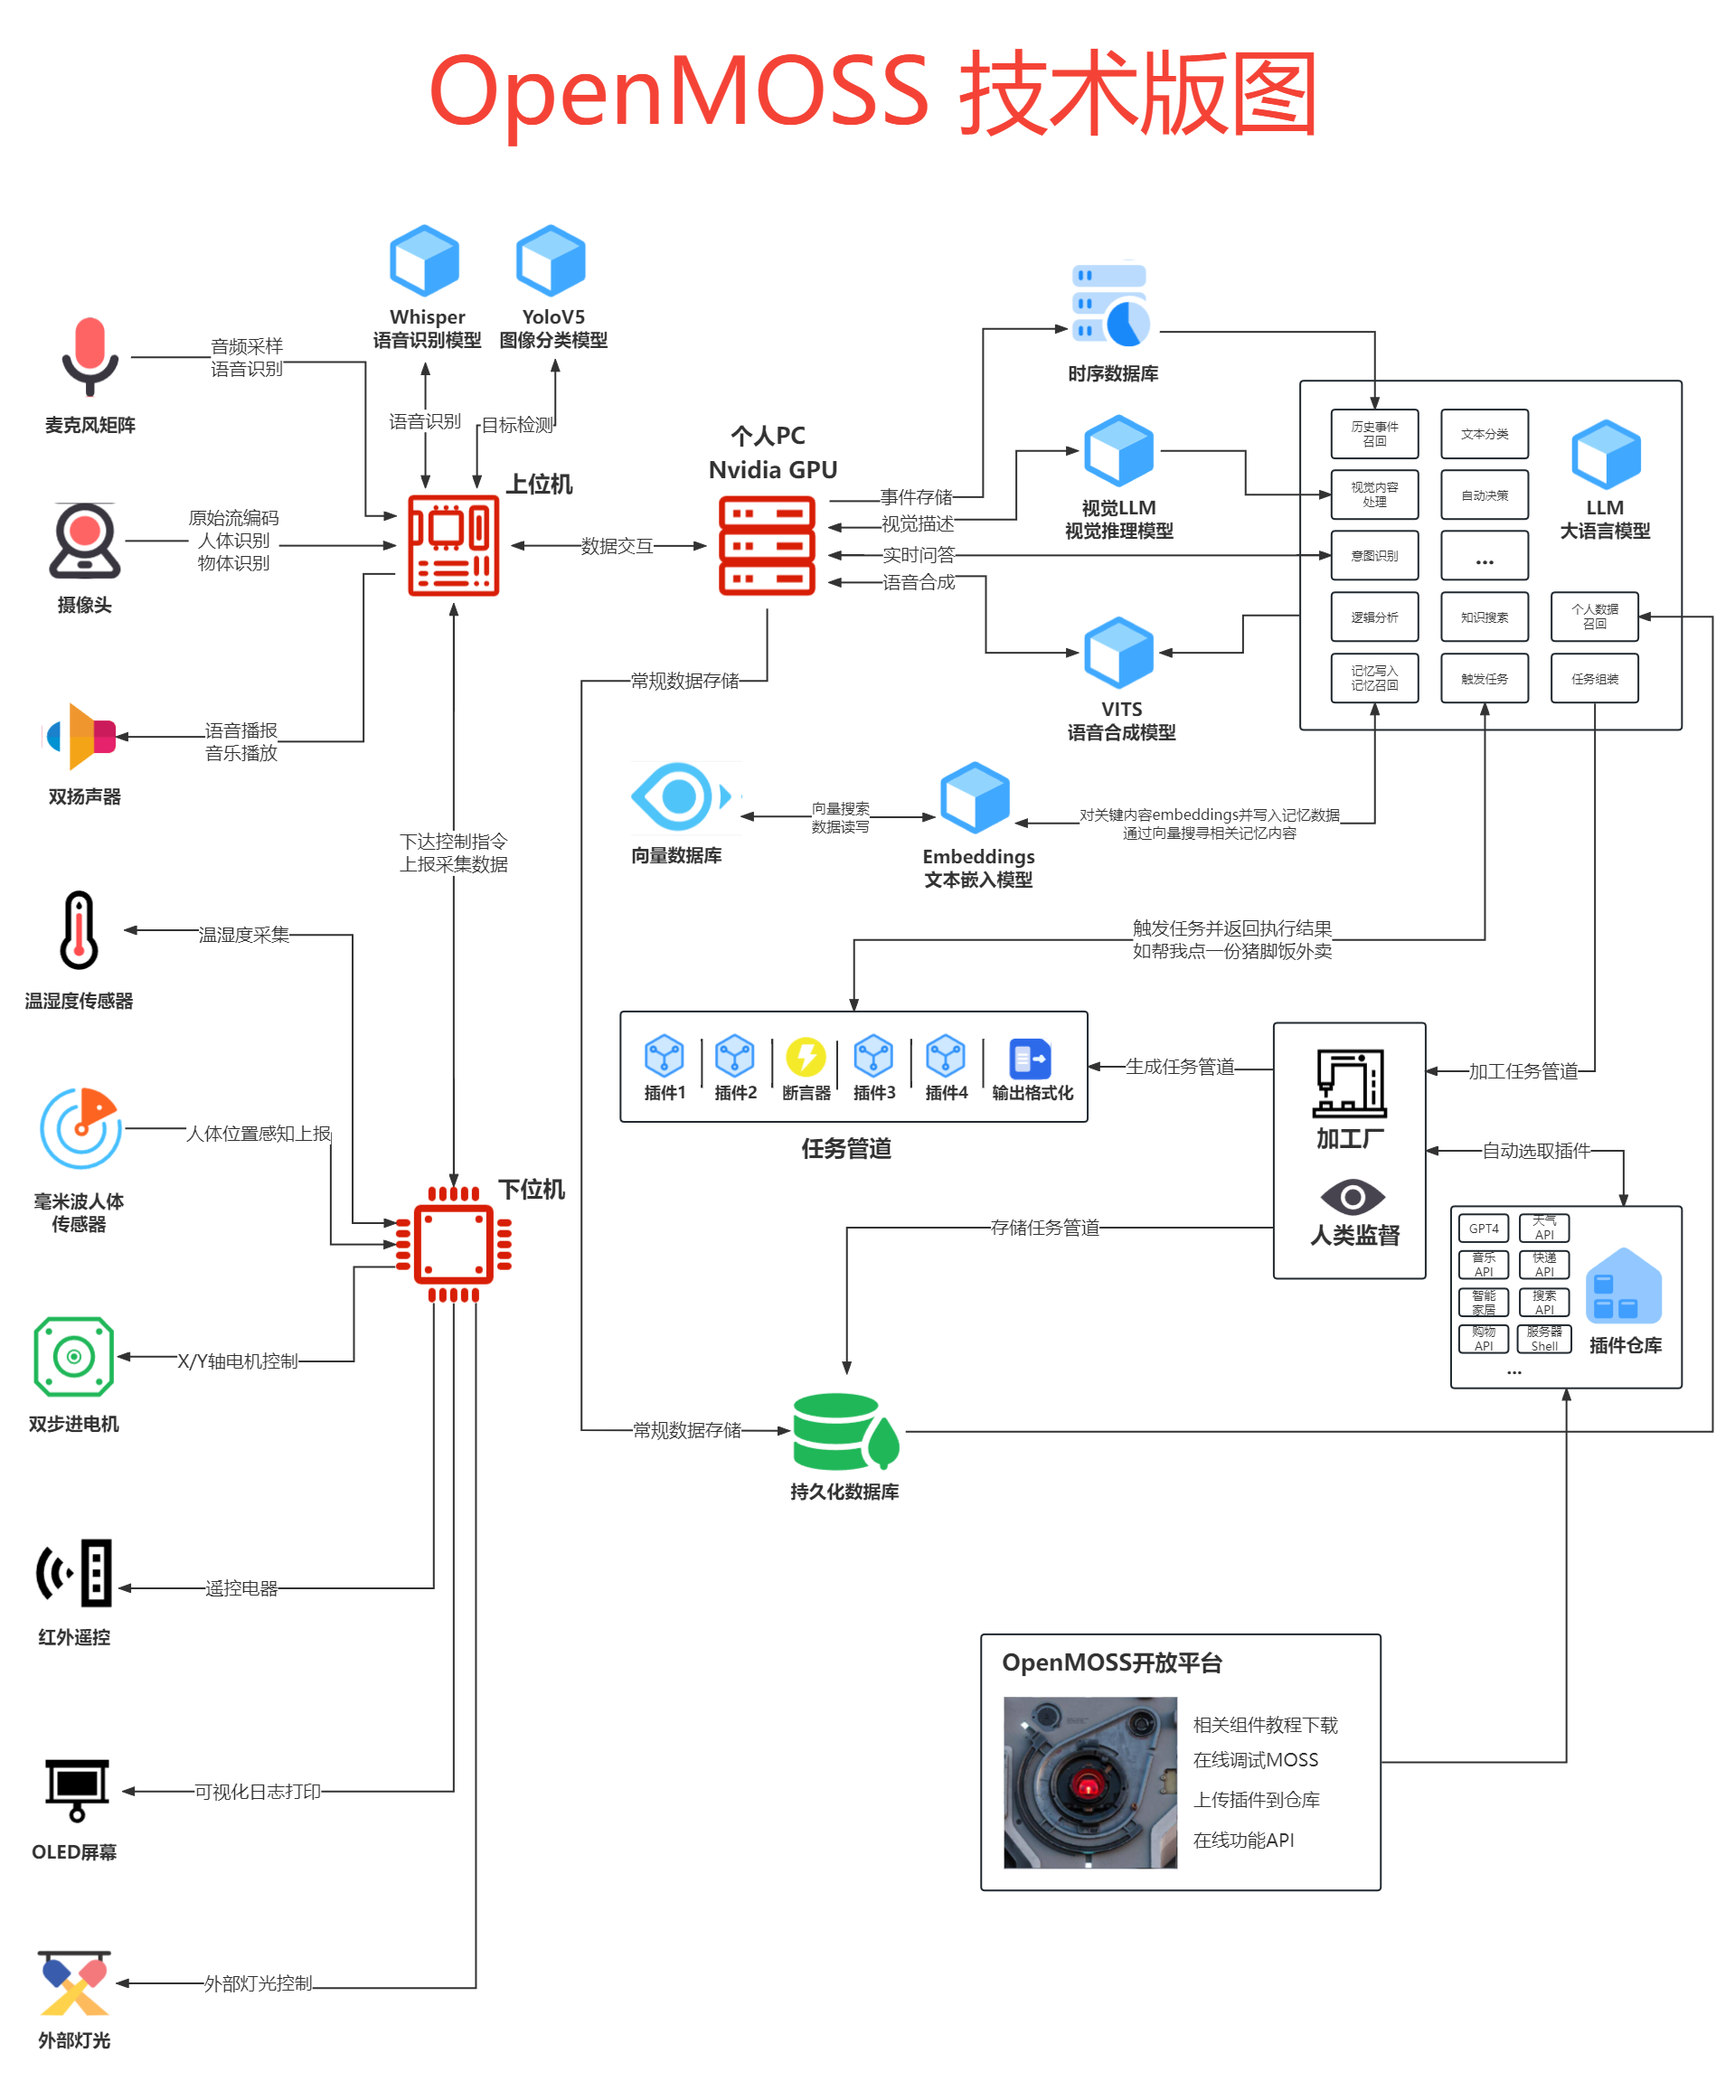
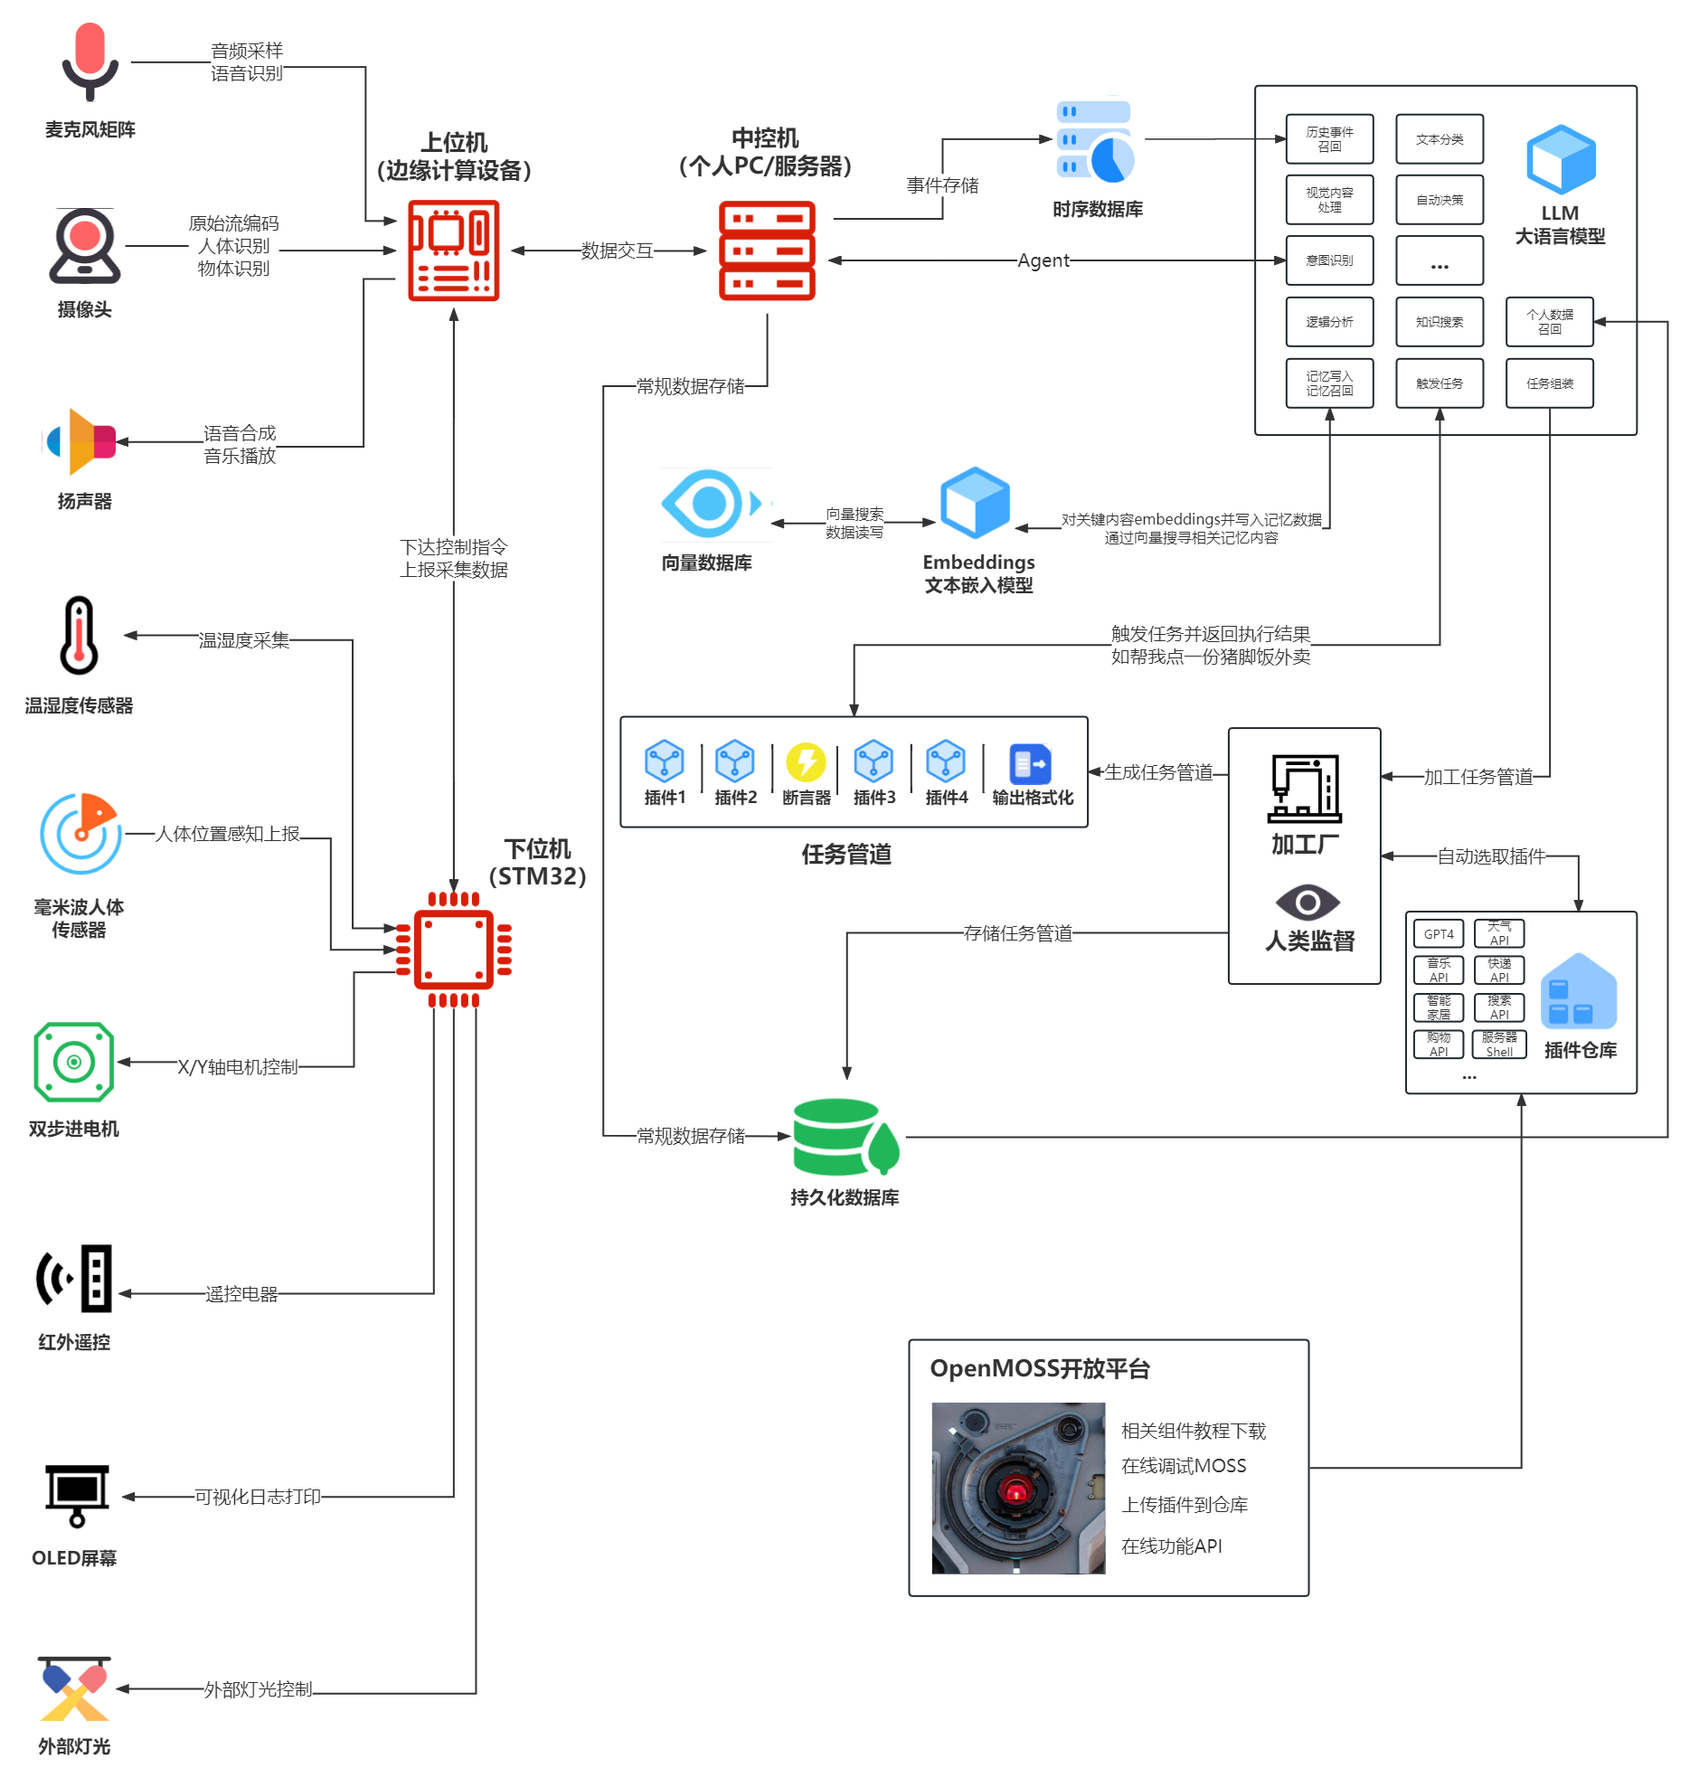
update README

diff --git a/profile/README.md b/profile/README.md
@@ -1,3 +1,18 @@
-# Open MOSS
+# OpenMOSS
+
+## 简介
+
+🚀 OpenMOSS是一个致力于AI边缘计算探索的开源组织，终极目标是将《流浪地球》的“MOSS”带入现实生活。
+
+在过去的十多年里，边缘计算发生了许多重要的发展和变化，我们坚信它是未来家庭物联网的解决方案的算力底层，借助轻量级LLM大模型可以为用户打造一个非常实用的私人助手，而所有计算仅发生在你家角落的黑盒子里或者它以MOSS的形象出现在您面前，您的隐私数据不再通过互联网传输。
+
+我们将在这个组织中打造一系列的服务组件用来支持MOSS的智能化。
+
+OpenMOSS交流群：238111072
+
+## 技术路线
 
 ![OpenMOSS](/profile/open-moss.png)
+
+## MOSS概念图
+![OpenMOSS](/profile/concept-map.png)
